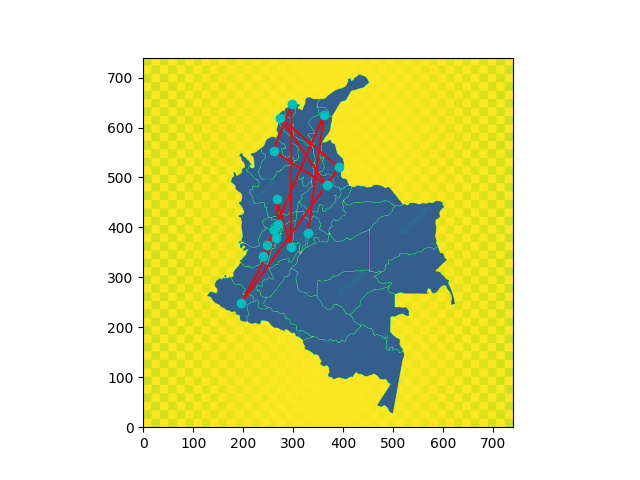
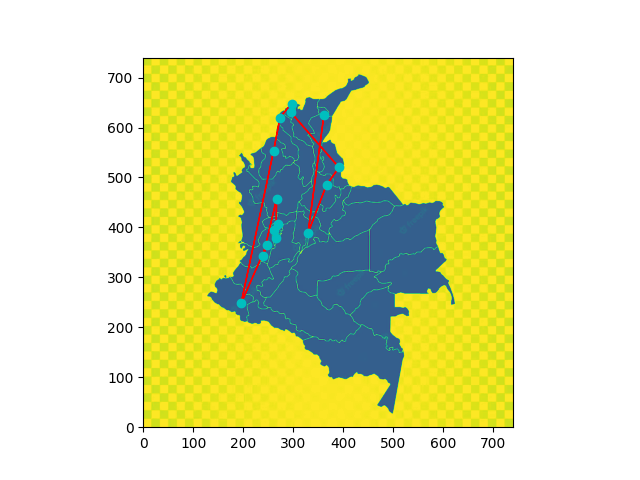
corrección de error y actualización de mapas

Changed region(s): [[0.375, 0.2188, 0.5312, 0.625], [0.5, 0.375, 0.5312, 0.4062]]

diff --git a/hormigas.py b/hormigas.py
@@ -180,8 +180,8 @@ def plot(points, path: list):
 
 def main():
     nombres = list(df_ciudades.Municipio)
-    X = [266, 297, 330, 367, 274, 392, 270, 267, 261, 240, 262, 196, 296, 247, 362]
-    Y = [378, 648, 389, 485, 620, 520, 406, 457, 553, 343, 394, 248, 361, 364, 626]
+    X = [266, 297, 330, 367, 274, 392, 270, 267, 261, 240, 262, 196, 295, 247, 362]
+    Y = [378, 648, 389, 485, 620, 520, 406, 457, 553, 343, 394, 248, 631, 364, 626]
     cities = []
     points = []
     i = 0
@@ -195,11 +195,10 @@ def main():
         for j in range(rank):
             if i != j and cost_matrix[i][j] == 0:
                 cost_matrix[i][j] = 20000
-    aco = ACO(100, 200, 1.0, 1.0, 0.1, 10, 2)
+    aco = ACO(100, 300, 1.0, 1.0, 0.1, 10, 2)
     graph = Graph(cost_matrix, rank)
     paths, cost = aco.solve(graph)
     print('costo: ${}, recorrido: {}'.format(round(cost), [nombres[i] for i in paths[-1]]))
-    print(len(paths))
     for path in paths:
         plot(points, path)
 
